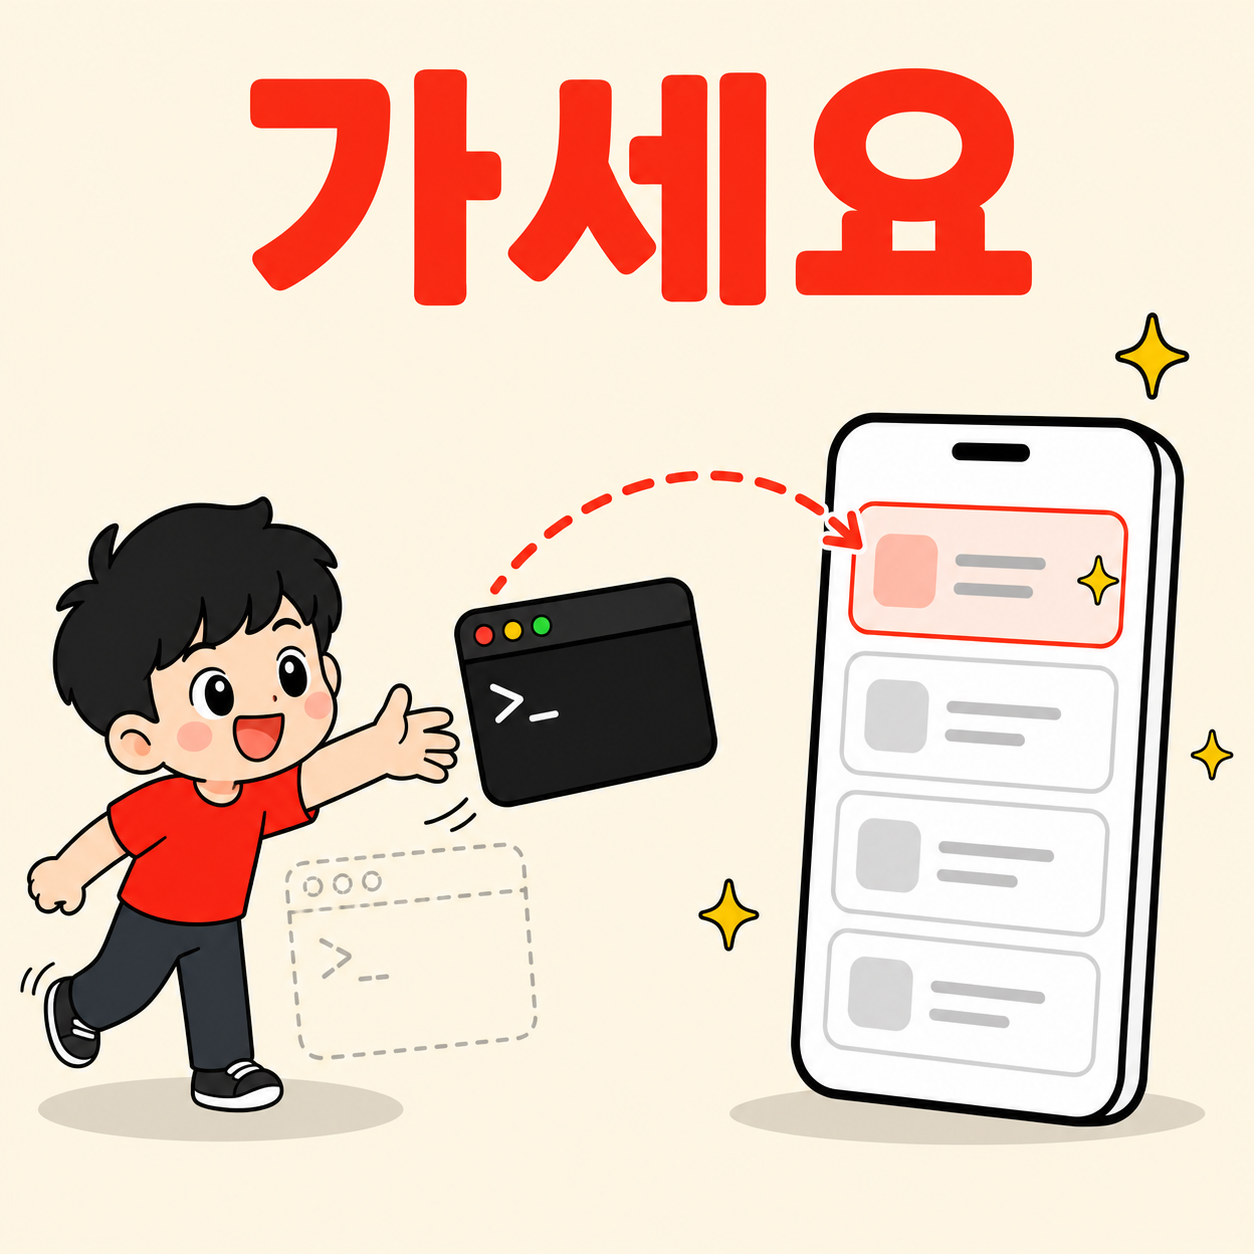
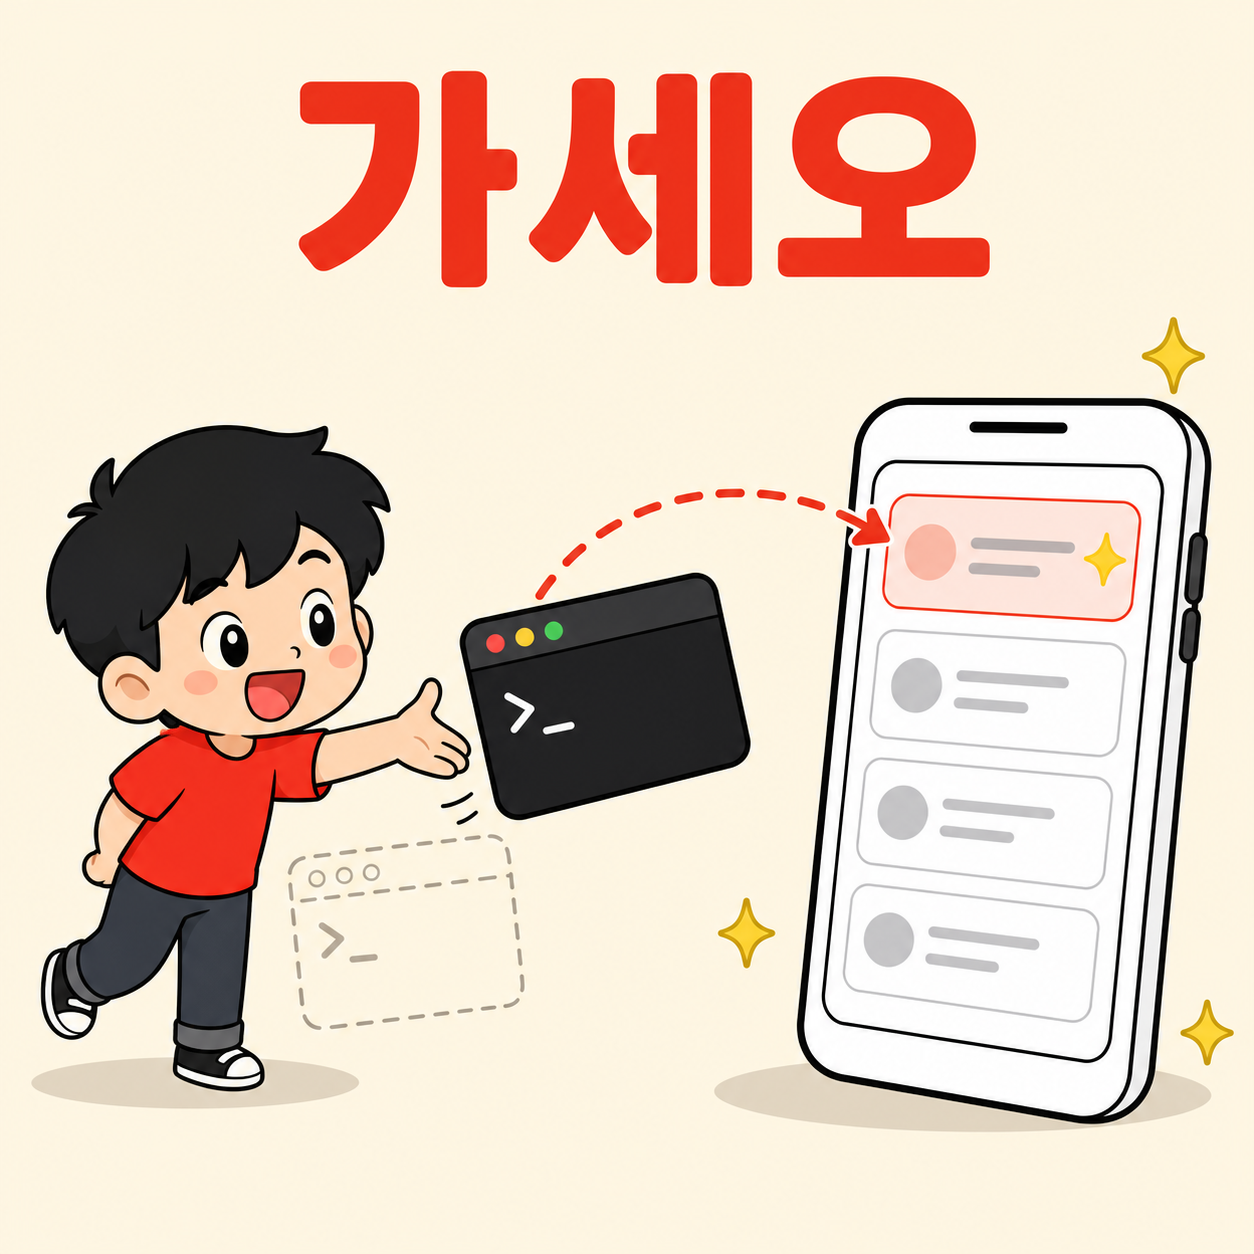
fix: correct the Korean name to 가세오 (v0.1.2)
The plugin is 가세오, rhyming with 파세오 (Paseo) — not 가세요. Renamed across
all five READMEs and the skill, and regenerated the hero image so the wordmark
reads 가세오.

"파세오로 가세요" is kept in the trigger lists as an alternate phrasing, since
that is the natural Korean imperative users actually say.

Changed region(s): [[0.0, 0.2488, 0.9952, 0.933], [0.1866, 0.0311, 0.8397, 0.2488], [0.311, 0.8086, 0.3421, 0.8397]]

diff --git a/README.ko.md b/README.ko.md
@@ -1,16 +1,16 @@
 [English](README.md) | 한국어 | [中文](README.zh.md) | [日本語](README.ja.md) | [Español](README.es.md)
 
-# gaseo (가세요)
+# gaseo (가세오)
 
 <p align="center">
-  <img src="assets/gaseo-hero-01.png" alt="가세요" width="320">
+  <img src="assets/gaseo-hero-01.png" alt="가세오" width="320">
 </p>
 
-> **지금 이 세션, 파세오로 가세요 — 거기서 이어서 하면 됩니다.**
+> **지금 이 세션, 파세오로 가세오 — 거기서 이어서 하면 됩니다.**
 
-[Paseo](https://paseo.app)는 자기가 띄운 에이전트만 목록에 보여줍니다. 터미널에서 `claude`로 직접 연 세션은 아예 뜨지 않고, 앱에서 이어받을 방법도 없습니다. `가세요`가 그 구멍을 메웁니다. "가세요" 한마디면 지금 이 순간 나누고 있는 대화가 원래 제목 그대로 파세오에 나타나고, 바로 이어서 말을 걸 수 있습니다.
+[Paseo](https://paseo.app)는 자기가 띄운 에이전트만 목록에 보여줍니다. 터미널에서 `claude`로 직접 연 세션은 아예 뜨지 않고, 앱에서 이어받을 방법도 없습니다. `가세오`가 그 구멍을 메웁니다. "가세오" 한마디면 지금 이 순간 나누고 있는 대화가 원래 제목 그대로 파세오에 나타나고, 바로 이어서 말을 걸 수 있습니다.
 
-[빠른 시작](#빠른-시작) • [왜 가세요인가](#왜-가세요인가) • [작동 방식](#작동-방식) • [주요 기능](#주요-기능) • [명령어](#명령어) • [요구사항](#요구사항)
+[빠른 시작](#빠른-시작) • [왜 가세오인가](#왜-가세오인가) • [작동 방식](#작동-방식) • [주요 기능](#주요-기능) • [명령어](#명령어) • [요구사항](#요구사항)
 
 ---
 
@@ -48,18 +48,18 @@
 
 말로 해도 됩니다:
 
-- "이 세션 파세오로 가세요"
-- "가세요 해줘"
+- "이 세션 파세오로 가세오"
+- "가세오 해줘"
 - "파세오에 등록해줘"
 - "과거 세션 파세오로 가져와줘"
 
 ---
 
-## 왜 가세요인가
+## 왜 가세오인가
 
 **터미널 세션은 파세오에 보이지 않습니다.** 파세오 목록에 뜨는 건 파세오가 직접 띄운 에이전트뿐입니다. 셸에서 직접 돌린 것들 — 사실상 실제 작업의 대부분 — 은 목록에 없고, UI에는 가져오기 버튼조차 없습니다.
 
-**복사가 아니라 연결입니다.** `가세요`는 `paseo import`를 부르고, 이건 세션 ID를 가리키는 포인터 하나만 남깁니다. 대화 기록은 Claude Code가 둔 자리에 그대로 있습니다. 나중에 파세오에서 에이전트를 아카이브해도 원본 대화는 멀쩡합니다.
+**복사가 아니라 연결입니다.** `가세오`는 `paseo import`를 부르고, 이건 세션 ID를 가리키는 포인터 하나만 남깁니다. 대화 기록은 Claude Code가 둔 자리에 그대로 있습니다. 나중에 파세오에서 에이전트를 아카이브해도 원본 대화는 멀쩡합니다.
 
 **작업 중에 자리를 떠도 됩니다.** 세션을 등록해두고 노트북을 덮은 뒤, 파세오 앱에서 이어가면 됩니다. 같은 대화, 같은 기록이라 상황을 다시 설명할 필요가 없습니다.
 
@@ -109,7 +109,7 @@
 
 ### 자연어 트리거
 
-- "이 세션 파세오로 가세요", "가세요 해줘", "파세오에 등록해줘"
+- "이 세션 파세오로 가세오", "가세오 해줘", "파세오로 가세요", "파세오에 등록해줘"
 - "과거 세션 파세오로 가져와줘", "지난 대화 파세오에 추가해줘"
 - "register this session to paseo", "send this session to paseo"
 - "import my past sessions into paseo"
@@ -118,7 +118,7 @@
 
 ## 알아둘 점
 
-**현재 세션을 어떻게 찾는가.** `가세요`는 Claude Code가 살아 있는 세션에 대해 내보내는 `$CLAUDE_CODE_SESSION_ID`를 읽고, 그 대화 기록이 해당 폴더에 실제로 있는지 확인합니다. 이게 없을 때만 가장 최근에 기록된 대화를 고르는 방식으로 물러섭니다 — 이건 추측입니다. 백그라운드 서브에이전트나 훅이 띄운 세션도 같은 디렉토리에 기록을 남기고, 그쪽이 더 최신인 경우가 잦기 때문입니다. 출력에 어느 경로를 썼는지(`via=env` / `via=mtime`)가 표시되니, `via=mtime` 추측일 때는 같이 뜨는 첫 메시지를 확인하거나 `/gaseo past`로 직접 고르세요.
+**현재 세션을 어떻게 찾는가.** `가세오`는 Claude Code가 살아 있는 세션에 대해 내보내는 `$CLAUDE_CODE_SESSION_ID`를 읽고, 그 대화 기록이 해당 폴더에 실제로 있는지 확인합니다. 이게 없을 때만 가장 최근에 기록된 대화를 고르는 방식으로 물러섭니다 — 이건 추측입니다. 백그라운드 서브에이전트나 훅이 띄운 세션도 같은 디렉토리에 기록을 남기고, 그쪽이 더 최신인 경우가 잦기 때문입니다. 출력에 어느 경로를 썼는지(`via=env` / `via=mtime`)가 표시되니, `via=mtime` 추측일 때는 같이 뜨는 첫 메시지를 확인하거나 `/gaseo past`로 직접 고르세요.
 
 **Claude 세션 전용입니다.** codex 세션은 폴더가 아니라 날짜 기준으로 저장돼서, 이 플러그인이 쓰는 폴더→세션 매핑이 아직 적용되지 않습니다.
 

diff --git a/README.md b/README.md
@@ -1,6 +1,6 @@
 English | [한국어](README.ko.md) | [中文](README.zh.md) | [日本語](README.ja.md) | [Español](README.es.md)
 
-# gaseo (가세요)
+# gaseo (가세오)
 
 <p align="center">
   <img src="assets/gaseo-hero-01.png" alt="gaseo" width="320">
@@ -8,7 +8,7 @@ English | [한국어](README.ko.md) | [中文](README.zh.md) | [日本語](READM
 
 > **Send the session you're in right now over to Paseo — and pick it up there.**
 
-[Paseo](https://paseo.app) lists only the agents it launched itself. A session you started by typing `claude` in a terminal never shows up, and there is no way to resume it from the app. `gaseo` closes that gap: say "가세요" and the conversation you are having this second appears in Paseo under its own title, ready to continue.
+[Paseo](https://paseo.app) lists only the agents it launched itself. A session you started by typing `claude` in a terminal never shows up, and there is no way to resume it from the app. `gaseo` closes that gap: say "가세오" and the conversation you are having this second appears in Paseo under its own title, ready to continue.
 
 [Quick Start](#quick-start) • [Why gaseo?](#why-gaseo) • [How it works](#how-it-works) • [Features](#features) • [Commands](#commands) • [Requirements](#requirements)
 
@@ -48,8 +48,8 @@ To bring in older conversations from this folder instead:
 
 Or just say it:
 
-- "이 세션 파세오로 가세요"
-- "가세요 해줘"
+- "이 세션 파세오로 가세오"
+- "가세오 해줘"
 - "register this session to paseo"
 - "import my past sessions into paseo"
 
@@ -111,7 +111,7 @@ is instant, needs no daemon restart, and never duplicates your data.
 
 ### Natural language triggers
 
-- "이 세션 파세오로 가세요", "가세요 해줘", "파세오에 등록해줘"
+- "이 세션 파세오로 가세오", "가세오 해줘", "파세오로 가세요", "파세오에 등록해줘"
 - "과거 세션 파세오로 가져와줘", "지난 대화 파세오에 추가해줘"
 - "register this session to paseo", "send this session to paseo"
 - "import my past sessions into paseo"

diff --git a/skills/gaseo/SKILL.md b/skills/gaseo/SKILL.md
@@ -1,6 +1,6 @@
 ---
 name: gaseo
-description: Registers a Claude Code session with the Paseo app so it appears in Paseo's agent list and the conversation can be continued there. Handles both the session running right now and past sessions of a folder, via `paseo import` (a pointer, not a copy). Korean triggers "이 세션 파세오로 가세요", "가세요 해줘", "파세오에 등록해줘", "과거 세션 파세오로 가져와줘", "지난 대화 파세오에 추가해줘". English triggers "gaseo", "register this session to paseo", "send this session to paseo", "import my past sessions into paseo". Not for creating or managing new Paseo agents — the `paseo` skill owns that.
+description: Registers a Claude Code session with the Paseo app so it appears in Paseo's agent list and the conversation can be continued there. Handles both the session running right now and past sessions of a folder, via `paseo import` (a pointer, not a copy). Korean triggers "이 세션 파세오로 가세오", "가세오 해줘", "파세오로 가세요", "파세오에 등록해줘", "과거 세션 파세오로 가져와줘", "지난 대화 파세오에 추가해줘". English triggers "gaseo", "register this session to paseo", "send this session to paseo", "import my past sessions into paseo". Not for creating or managing new Paseo agents — the `paseo` skill owns that.
 ---
 
 # gaseo
@@ -20,7 +20,7 @@ gap this skill closes.
 
 Read the request:
 
-- "이 세션 등록해줘" / "가세요" / "파세오에 추가해줘" → **current-session mode** (Step 2)
+- "이 세션 등록해줘" / "가세오" / "파세오에 추가해줘" → **current-session mode** (Step 2)
 - "과거 세션 가져와줘" / "지난 대화 등록해줘" / `past` → **past-session mode** (Step 3)
 
 The target folder is whichever folder the user names; with none named, use the

diff --git a/CHANGELOG.md b/CHANGELOG.md
@@ -1,5 +1,13 @@
 # Changelog
 
+## 0.1.2 — 2026-08-08
+
+- Corrected the Korean name: the plugin is **가세오**, not 가세요 — it rhymes with
+  파세오 (Paseo). Renamed across all five READMEs and the skill, and regenerated
+  the hero image with the corrected wordmark.
+- "파세오로 가세요" stays in the trigger lists as an alternate phrasing, since
+  that is the natural Korean imperative users actually say.
+
 ## 0.1.1 — 2026-08-08
 
 - Current-session detection now uses `$CLAUDE_CODE_SESSION_ID`, the ID Claude
